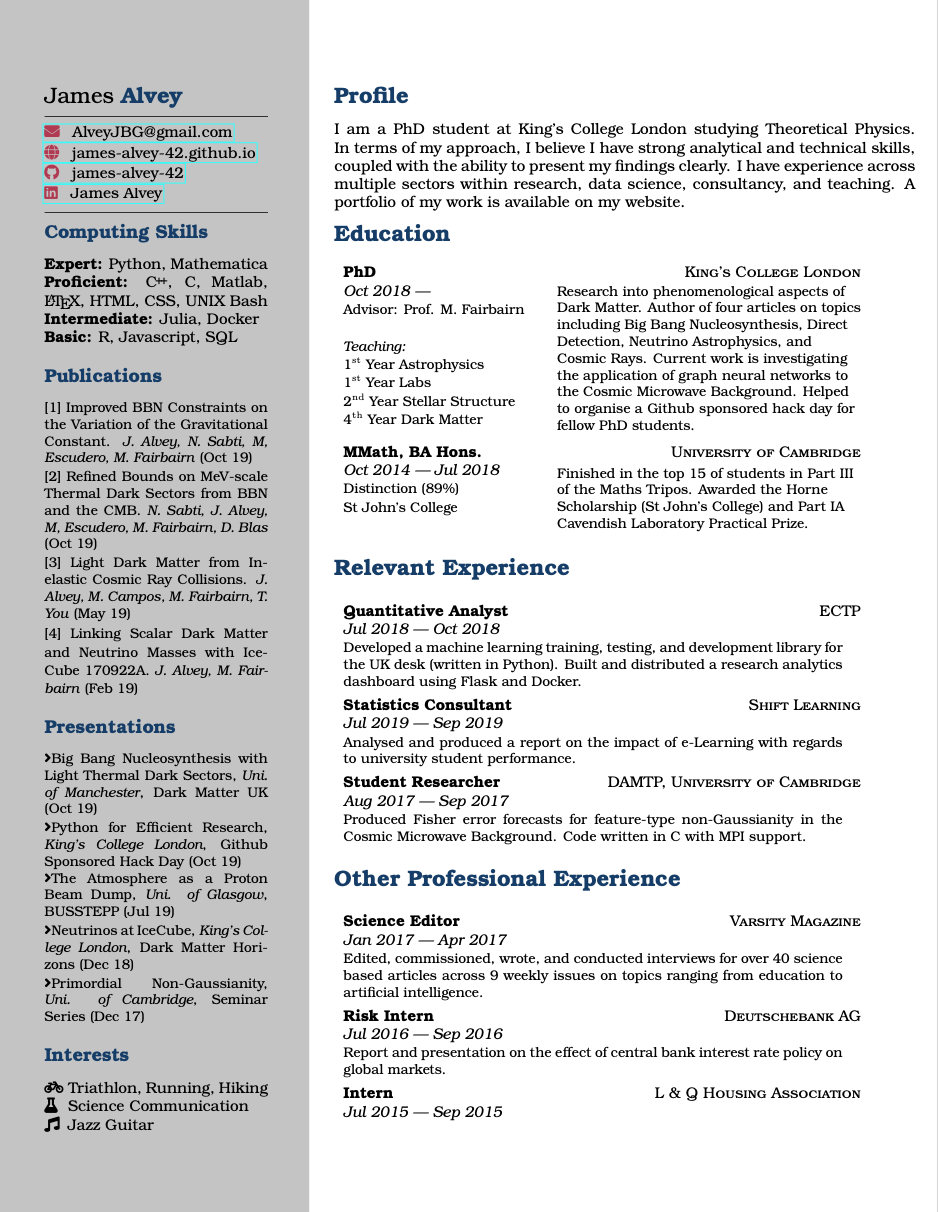
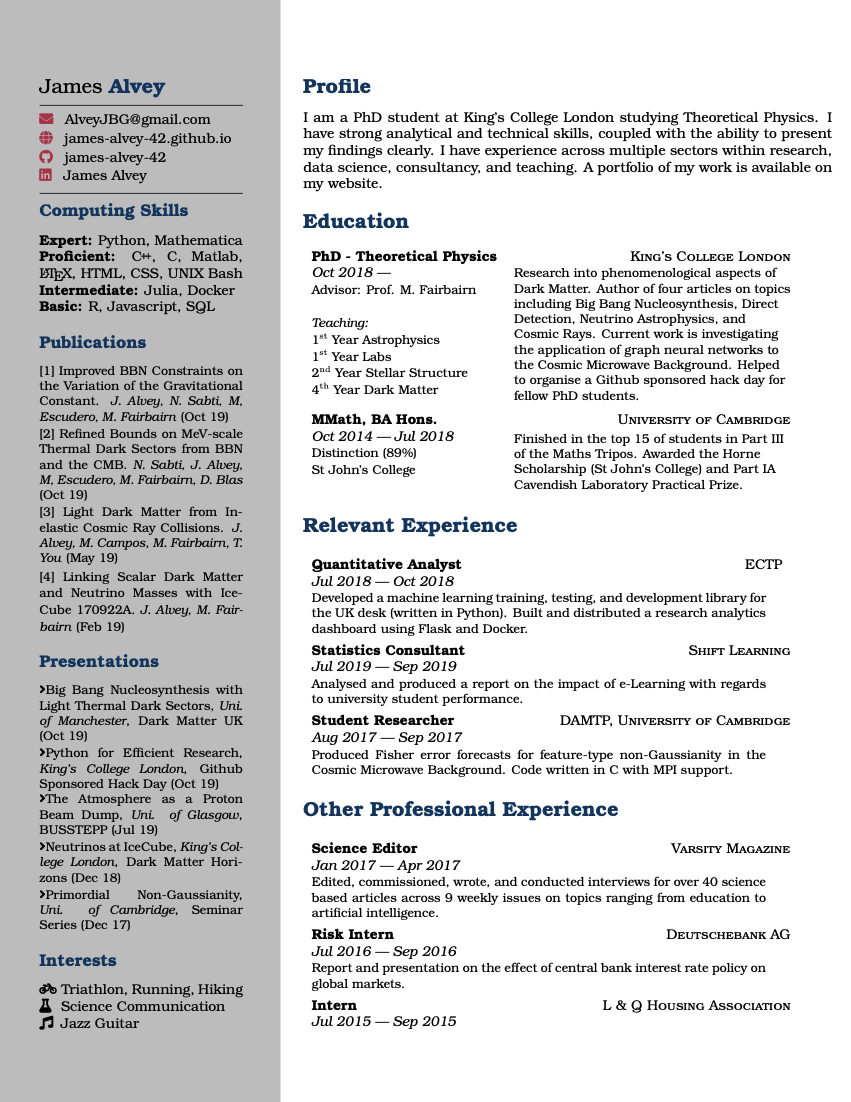
Added .gitignore and new profile section

Changed region(s): [[0.3361, 0.4628, 0.9166, 0.9564], [0.0306, 0.0617, 0.275, 0.9564], [0.3361, 0.0617, 0.9777, 0.4628]]

diff --git a/main.tex b/main.tex
@@ -7,7 +7,7 @@
 \usepackage[T1]{fontenc}
 \usepackage[utf8]{inputenc}
 \usepackage{tgbonum}
-\usepackage{hyperref}
+\usepackage[hidelinks]{hyperref}
 \usepackage{xcolor}
 \usepackage{tabularx}
 \usepackage{multirow}
@@ -119,14 +119,14 @@
 {\Large \textbf {\color{maincol}Profile}}
 \vspace{0.3cm}
 
-I am a PhD student at King's College London studying Theoretical Physics. In terms of my approach, I believe I have strong analytical and technical skills, coupled with the ability to present my findings clearly. I have experience across multiple sectors within research, data science, consultancy, and teaching. A portfolio of my work is available on my website.
-\vspace{0.3cm}
+I am a PhD student at King's College London studying Theoretical Physics. I have strong analytical and technical skills, coupled with the ability to present my findings clearly. I have experience across multiple sectors within research, data science, consultancy, and teaching. A portfolio of my work is available on my website.
+\vspace{0.51cm}
 
 {\Large \textbf {\color{maincol}Education}}
 \vspace{0.5cm}
 
-\begin{tabularx}{0.65\linewidth}{p{4.5cm}p{7cm}}
-\textbf{PhD} & \multicolumn{1}{r}{\textsc{King's College London}}                  \\
+\begin{tabularx}{0.65\linewidth}{p{4.7cm}p{7cm}}
+\textbf{PhD - Theoretical Physics} & \multicolumn{1}{r}{\textsc{King's College London}}                  \\
 \textit{Oct 2018 ---} &  \multirow{7}{7cm}{\small{\raggedright Research into phenomenological aspects of Dark Matter. Author of four articles on topics including Big Bang Nucleosynthesis, Direct Detection, Neutrino Astrophysics, and Cosmic Rays. Current work is investigating the application of graph neural networks to the Cosmic Microwave Background. Helped to organise a Github sponsored hack day for fellow PhD students.}}                 \\
 \small Advisor: Prof. M. Fairbairn &  \\
  &                   \\
@@ -134,59 +134,59 @@ I am a PhD student at King's College London studying Theoretical Physics. In ter
 \small 1$^{\mathrm{st}}$ Year Astrophysics &                   \\
 \small 1$^{\mathrm{st}}$ Year Labs &                   \\
 \small 2$^{\mathrm{nd}}$ Year Stellar Structure &                   \\
-\small 4$^{\mathrm{th}}$ Year Dark Matter &                  
+\small 4$^{\mathrm{th}}$ Year Dark Matter &
 \end{tabularx}
 \vspace{0.3cm}
 
-\begin{tabularx}{0.65\linewidth}{p{4.5cm}p{7cm}}
+\begin{tabularx}{0.65\linewidth}{p{4.7cm}p{7cm}}
 \textbf{MMath, BA Hons.} & \multicolumn{1}{r}{\textsc{University of Cambridge}}                  \\
 \textit{Oct 2014 --- Jul 2018} & \multirow{4}{7cm}{\small{\raggedright Finished in the top 15 of students in Part III of the Maths Tripos. Awarded the Horne Scholarship (St John's College) and Part IA Cavendish Laboratory Practical Prize.}}                  \\
 \small Distinction (89\%) &  \\
 \small St John's College &                   \\
-  &                  
+  &
 \end{tabularx}
-\vspace{0.5cm}
+\vspace{0.51cm}
 
 {\Large \textbf {\color{maincol}Relevant Experience}}
 \vspace{0.5cm}
 
 \begin{tabularx}{0.65\linewidth}{p{4.5cm}p{7cm}}
 \textbf{Quantitative Analyst} & \multicolumn{1}{r}{\textsc{ECTP}}                  \\
-\textit{Jul 2018 --- Oct 2018} & \\ \multicolumn{2}{p{11.5cm}}{\small{\raggedright Developed a machine learning training, testing, and development library for the UK desk (written in Python). Built and distributed a research analytics dashboard using Flask and Docker.}}                  
+\textit{Jul 2018 --- Oct 2018} & \\ \multicolumn{2}{p{11.5cm}}{\small{\raggedright Developed a machine learning training, testing, and development library for the UK desk (written in Python). Built and distributed a research analytics dashboard using Flask and Docker.}}
 \end{tabularx}
 \vspace{0.1cm}
 
-\begin{tabularx}{0.65\linewidth}{p{4.5cm}p{7cm}}
+\begin{tabularx}{0.65\linewidth}{p{4.7cm}p{7cm}}
 \textbf{Statistics Consultant} & \multicolumn{1}{r}{\textsc{Shift Learning}}                  \\
-\textit{Jul 2019 --- Sep 2019} & \\ \multicolumn{2}{p{11.5cm}}{\small{\raggedright Analysed and produced a report on the impact of e-Learning with regards to university student performance.}}                  
+\textit{Jul 2019 --- Sep 2019} & \\ \multicolumn{2}{p{11.5cm}}{\small{\raggedright Analysed and produced a report on the impact of e-Learning with regards to university student performance.}}
 \end{tabularx}
 \vspace{0.1cm}
 
-\begin{tabularx}{0.65\linewidth}{p{4.5cm}p{7cm}}
+\begin{tabularx}{0.65\linewidth}{p{4.7cm}p{7cm}}
 \textbf{Student Researcher} & \multicolumn{1}{r}{\textsc{DAMTP, University of Cambridge}}                  \\
-\textit{Aug 2017 --- Sep 2017} & \\ \multicolumn{2}{p{11.5cm}}{\small{\raggedright Produced Fisher error forecasts for feature-type non-Gaussianity in the Cosmic Microwave Background. Code written in C with MPI support.}}                  
+\textit{Aug 2017 --- Sep 2017} & \\ \multicolumn{2}{p{11.5cm}}{\small{\raggedright Produced Fisher error forecasts for feature-type non-Gaussianity in the Cosmic Microwave Background. Code written in C with MPI support.}}
 \end{tabularx}
-\vspace{0.5cm}
+\vspace{0.53cm}
 
 
 {\Large \textbf {\color{maincol}Other Professional Experience}}
 \vspace{0.5cm}
 
-\begin{tabularx}{0.65\linewidth}{p{4.5cm}p{7cm}}
+\begin{tabularx}{0.65\linewidth}{p{4.7cm}p{7cm}}
 \textbf{Science Editor} & \multicolumn{1}{r}{\textsc{Varsity Magazine}}                  \\
 \textit{Jan 2017 --- Apr 2017} & \\ \multicolumn{2}{p{11.5cm}}{\small{\raggedright Edited, commissioned, wrote, and conducted interviews for over 40 science based articles across 9 weekly issues on topics ranging from education to artificial intelligence.}}
 \end{tabularx}
 \vspace{0.1cm}
 
-\begin{tabularx}{0.65\linewidth}{p{4.5cm}p{7cm}}
+\begin{tabularx}{0.65\linewidth}{p{4.7cm}p{7cm}}
 \textbf{Risk Intern} &  \multicolumn{1}{r}{\textsc{Deutschebank AG}}                  \\
-\textit{Jul 2016 --- Sep 2016} & \\ \multicolumn{2}{p{11.5cm}}{\small{\raggedright Report and presentation on the effect of central bank interest rate policy on global markets.}}                
+\textit{Jul 2016 --- Sep 2016} & \\ \multicolumn{2}{p{11.5cm}}{\small{\raggedright Report and presentation on the effect of central bank interest rate policy on global markets.}}
 \end{tabularx}
 \vspace{0.1cm}
 
-\begin{tabularx}{0.65\linewidth}{p{4.5cm}p{7cm}}
+\begin{tabularx}{0.65\linewidth}{p{4.7cm}p{7cm}}
 \textbf{Intern} & \multicolumn{1}{r}{\textsc{L \& Q Housing Association}}                  \\
-\textit{Jul 2015 --- Sep 2015} &                  
+\textit{Jul 2015 --- Sep 2015} &
 \end{tabularx}
 
 
